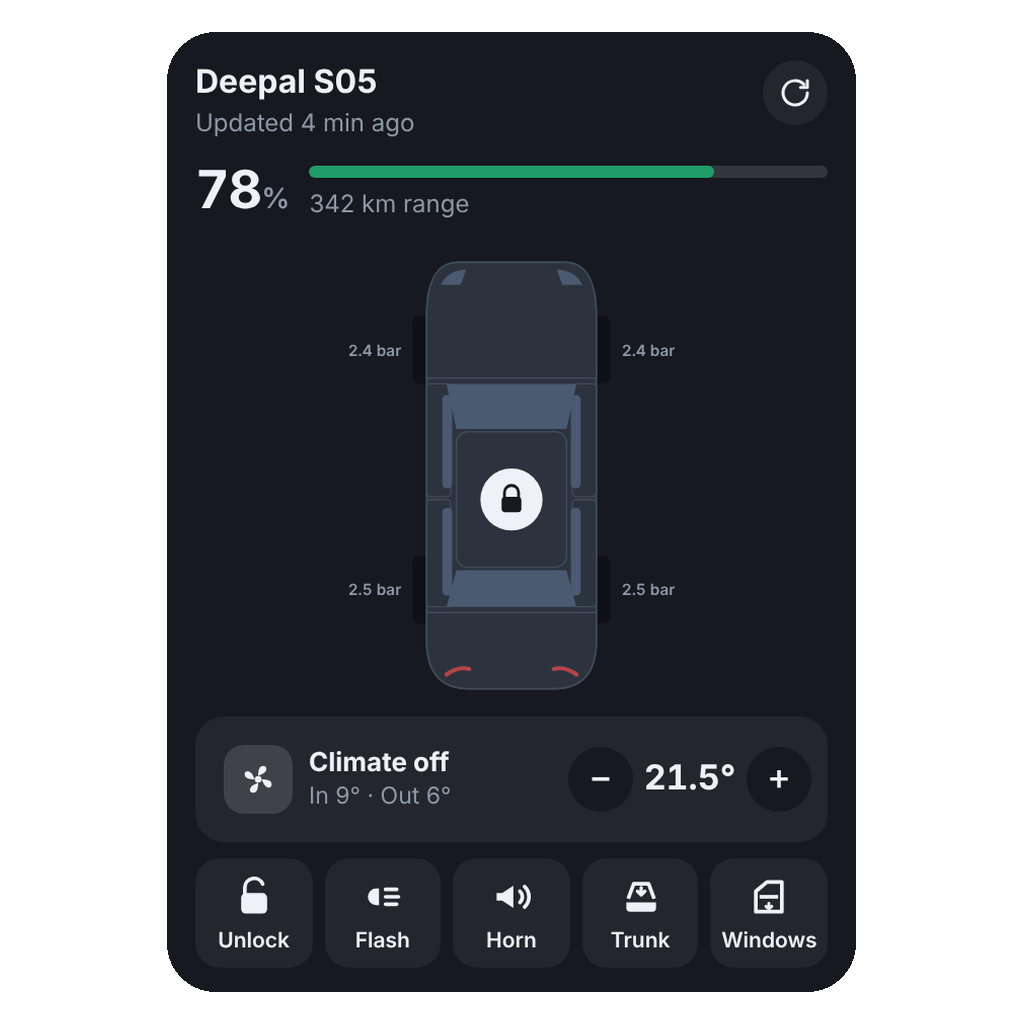
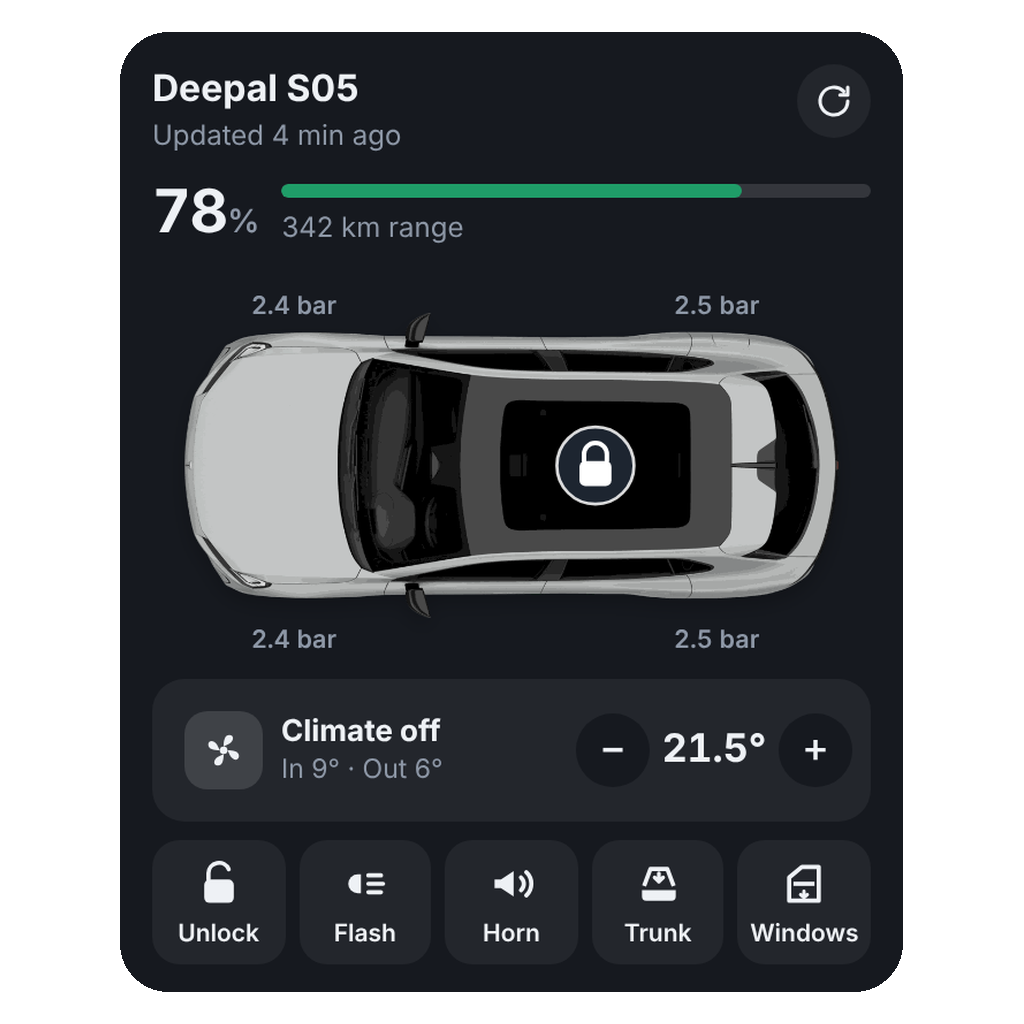
Use the S05 top-view render in the car widget
The car is drawn horizontally from the real S05 image, with door, window,
hood and trunk states tinted inside the car outline. Tap areas follow the
picture: lock badge on the glass roof, front for lights, tailgate for trunk.

Claude-Session: https://claude.ai/code/session_019wMVxHNUpZdVKq2qXqi373

diff --git a/widgets/car/public/index.html b/widgets/car/public/index.html
@@ -81,14 +81,13 @@
   .battery-text .charging { color: var(--ok); font-weight: 600; }
 
   /* Car */
-  .car-wrap { position: relative; margin: 8px auto 4px; max-width: 300px; }
-  .car-wrap > svg { width: 100%; height: auto; max-height: 230px; }
+  .car-wrap { position: relative; margin: 10px -6px 6px; }
+  .car-wrap > svg { width: 100%; height: auto; overflow: visible; }
   .part { cursor: pointer; transition: fill .25s ease, opacity .25s ease; }
   .part:active { opacity: .7; }
   .part.disabled { cursor: default; }
-  .tire-label { font-size: 11px; font-weight: 600; fill: var(--muted); font-variant-numeric: tabular-nums; }
+  .tire-label { font-size: 40px; font-weight: 600; fill: var(--muted); font-variant-numeric: tabular-nums; }
   .tire-label.alarm { fill: var(--danger); }
-  .tire-caption { font-size: 9px; fill: var(--muted); opacity: .8; }
   .state-label { font-size: 9.5px; font-weight: 700; letter-spacing: .4px; fill: var(--warn); text-transform: uppercase; }
   .cabin-glow { opacity: 0; transition: opacity .4s ease; }
   .climate-on .cabin-glow { opacity: 1; animation: breathe 3s ease-in-out infinite; }
@@ -291,120 +290,104 @@
 
   const fmt = (value, unit, digits = 0) => (value == null ? '–' : `${Number(value).toFixed(digits)}${unit}`);
 
+  // S05 top view, front to the left: the top edge is the car's right side.
+  // Coordinates are in the original 1200×750 render; s05.png is its crop at (64, 120).
+  const DOOR_SPANS = { front: [400, 645], rear: [680, 890] };
+  const WINDOW_SPANS = { front: [470, 650], rear: [682, 912] };
+
   function carSvg(c) {
     const doors = c.doors || {};
     const windows = c.windows || {};
     const locked = c.locked;
     const busyLock = isPending('lock') || isPending('unlock');
     const confirmUnlock = confirm && confirm.action === 'unlock';
-    const lockFill = confirmUnlock ? 'var(--accent)' : locked === false ? 'var(--warn)' : 'var(--text)';
+    const lockFill = confirmUnlock ? 'var(--accent)' : locked === false ? 'var(--warn)' : '#1d2530';
     const lockAction = locked === false ? 'lock' : 'unlock';
-    const doorFill = open => (open ? 'var(--warn)' : 'var(--body)');
-    const glassFill = open => (open ? 'var(--glass-open)' : 'var(--glass)');
-    const windowsAction = c.anyWindowOpen ? 'windows_close' : 'windows_open';
     const heating = c.targetTemperature != null && c.insideTemperature != null && c.targetTemperature > c.insideTemperature;
     const glow = heating ? 'var(--heat)' : 'var(--accent)';
-    const tire = (t, x, y, anchor) => {
-      const alarm = t && t.alarm;
-      return `<text class="tire-label${alarm ? ' alarm' : ''}" x="${x}" y="${y}" text-anchor="${anchor}">${t && t.bar != null ? `${t.bar.toFixed(1)} bar` : '–'}</text>`;
+    const charging = c.chargingState === 'plugged_in_charging';
+    const plugged = c.chargingState && c.chargingState !== 'plugged_out';
+
+    const tire = (t, x, y) => `<text class="tire-label${t && t.alarm ? ' alarm' : ''}" x="${x}" y="${y}" text-anchor="middle">${t && t.bar != null ? `${t.bar.toFixed(1)} bar` : '–'}</text>`;
+    // Door band along the body edge, and the door drawn swung out from its front hinge.
+    const door = (side, span, open) => {
+      if (!open) return '';
+      const [x1, x2] = DOOR_SPANS[span];
+      const top = side === 'right';
+      const edge = top ? 163 : 585;
+      const band = top ? `M${x1} 158 L${x2} 158 L${x2} 192 L${x1} 192 Z` : `M${x1} 556 L${x2} 556 L${x2} 590 L${x1} 590 Z`;
+      return `<path d="${band}" fill="var(--warn)" opacity=".85" mask="url(#car)"/>
+        <rect x="${x1}" y="${edge - 7}" width="${x2 - x1}" height="14" rx="7" fill="var(--warn)" transform="rotate(${top ? -24 : 24} ${x1} ${edge})"/>`;
     };
-    // An open door is drawn swung out from its front hinge.
-    const openDoor = (side, top, length) => {
-      const x = side === 'left' ? 84 : 210;
-      const hinge = side === 'left' ? 90 : 210;
-      const angle = side === 'left' ? 32 : -32;
-      return `<rect x="${x}" y="${top}" width="6" height="${length}" rx="3" fill="var(--warn)" transform="rotate(${angle} ${hinge} ${top})"/>`;
+    const glass = (side, span, open) => {
+      if (!open) return '';
+      const [x1, x2] = WINDOW_SPANS[span];
+      const y = side === 'right' ? 188 : 526;
+      return `<rect x="${x1}" y="${y}" width="${x2 - x1}" height="35" rx="12" fill="var(--warn)" opacity=".9"/>`;
     };
 
     return `
-    <svg viewBox="0 0 300 330" class="${c.climateOn ? 'climate-on' : ''} ${flashing ? 'flashing' : ''}" role="img" aria-label="Car, top view">
+    <svg viewBox="0 70 1200 625" class="${c.climateOn ? 'climate-on' : ''} ${flashing ? 'flashing' : ''}" role="img" aria-label="Deepal S05, top view">
       <defs>
-        <radialGradient id="glow" cx="50%" cy="50%" r="60%">
-          <stop offset="0%" stop-color="${glow}" stop-opacity=".55"/>
+        <mask id="car" style="mask-type:alpha" maskUnits="userSpaceOnUse" x="0" y="0" width="1200" height="750">
+          <image href="s05.png" x="64" y="120" width="1072" height="510"/>
+        </mask>
+        <radialGradient id="glow" cx="50%" cy="50%" r="50%">
+          <stop offset="0%" stop-color="${glow}" stop-opacity=".75"/>
           <stop offset="100%" stop-color="${glow}" stop-opacity="0"/>
         </radialGradient>
-        <linearGradient id="beam" x1="0" y1="1" x2="0" y2="0">
-          <stop offset="0%" stop-color="#ffe8a3" stop-opacity=".9"/>
+        <linearGradient id="beam" x1="1" y1="0" x2="0" y2="0">
+          <stop offset="0%" stop-color="#ffe8a3" stop-opacity=".95"/>
           <stop offset="100%" stop-color="#ffe8a3" stop-opacity="0"/>
         </linearGradient>
+        <filter id="shadow" x="-10%" y="-10%" width="120%" height="130%">
+          <feDropShadow dx="0" dy="14" stdDeviation="16" flood-color="#000" flood-opacity=".22"/>
+        </filter>
       </defs>
 
       <!-- headlight beams (shown while flashing) -->
-      <path class="flash-beam" d="M98 22 L70 -10 L130 -10 L118 22 Z" fill="url(#beam)"/>
-      <path class="flash-beam" d="M182 22 L170 -10 L230 -10 L202 22 Z" fill="url(#beam)"/>
+      <path class="flash-beam" d="M150 182 L0 120 L0 270 L135 200 Z" fill="url(#beam)"/>
+      <path class="flash-beam" d="M150 566 L0 628 L0 478 L135 548 Z" fill="url(#beam)"/>
 
-      <!-- wheels -->
-      <rect x="80" y="52" width="13" height="48" rx="5" fill="var(--wheel)"/>
-      <rect x="207" y="52" width="13" height="48" rx="5" fill="var(--wheel)"/>
-      <rect x="80" y="222" width="13" height="48" rx="5" fill="var(--wheel)"/>
-      <rect x="207" y="222" width="13" height="48" rx="5" fill="var(--wheel)"/>
+      <image href="s05.png" x="64" y="120" width="1072" height="510" filter="url(#shadow)"/>
 
-      <!-- body -->
-      <path d="M112 14 C96 14 90 30 90 52 L90 282 C90 304 99 316 120 316 L180 316 C201 316 210 304 210 282 L210 52 C210 30 204 14 188 14 Z" fill="var(--body)" stroke="var(--body-edge)" stroke-width="1.5"/>
+      <!-- state tints, clipped to the car's outline -->
+      ${c.hoodOpen ? '<rect x="64" y="120" width="285" height="510" fill="var(--warn)" opacity=".75" mask="url(#car)"/>' : ''}
+      ${c.trunkOpen ? '<rect x="945" y="120" width="191" height="510" fill="var(--warn)" opacity=".75" mask="url(#car)"/>' : ''}
+      <rect class="cabin-glow" x="380" y="150" width="660" height="450" fill="url(#glow)" mask="url(#car)" style="mix-blend-mode:screen"/>
+      ${glass('right', 'front', windows.frontRight)}${glass('right', 'rear', windows.rearRight)}
+      ${glass('left', 'front', windows.frontLeft)}${glass('left', 'rear', windows.rearLeft)}
+      ${door('right', 'front', doors.passenger)}${door('right', 'rear', doors.rearRight)}
+      ${door('left', 'front', doors.driver)}${door('left', 'rear', doors.rearLeft)}
+      ${flashing ? '<g fill="#ffd65a"><ellipse cx="170" cy="186" rx="40" ry="9"/><ellipse cx="170" cy="562" rx="40" ry="9"/></g>' : ''}
 
-      <!-- hood -->
-      <path d="M112 14 C96 14 90 30 90 52 L90 96 L210 96 L210 52 C210 30 204 14 188 14 Z" fill="${c.hoodOpen ? 'var(--warn)' : 'var(--body)'}" stroke="var(--body-edge)" stroke-width="1"/>
-      <!-- headlights: tap to flash -->
-      <g class="part" data-action="flash" role="button" aria-label="Flash the lights">
-        <path d="M100 30 Q104 20 118 19 L114 30 Z" fill="${flashing ? '#ffd65a' : 'var(--glass)'}"/>
-        <path d="M200 30 Q196 20 182 19 L186 30 Z" fill="${flashing ? '#ffd65a' : 'var(--glass)'}"/>
-        <rect x="96" y="14" width="108" height="26" fill="transparent"/>
-      </g>
-
-      <!-- doors: tap to lock / unlock -->
-      <g class="part" data-action="${lockAction}" role="button" aria-label="${locked === false ? 'Lock' : 'Unlock'} the car">
-        <rect x="90" y="100" width="17" height="80" rx="3" fill="${doorFill(doors.driver)}" stroke="var(--body-edge)"/>
-        <rect x="90" y="182" width="17" height="76" rx="3" fill="${doorFill(doors.rearLeft)}" stroke="var(--body-edge)"/>
-        <rect x="193" y="100" width="17" height="80" rx="3" fill="${doorFill(doors.passenger)}" stroke="var(--body-edge)"/>
-        <rect x="193" y="182" width="17" height="76" rx="3" fill="${doorFill(doors.rearRight)}" stroke="var(--body-edge)"/>
-      </g>
-      ${doors.driver ? openDoor('left', 100, 76) : ''}
-      ${doors.rearLeft ? openDoor('left', 182, 72) : ''}
-      ${doors.passenger ? openDoor('right', 100, 76) : ''}
-      ${doors.rearRight ? openDoor('right', 182, 72) : ''}
-
-      <!-- side windows: tap to open / close all windows -->
-      <g class="part" data-action="${windowsAction}" role="button" aria-label="${c.anyWindowOpen ? 'Close' : 'Open'} the windows">
-        <rect x="101" y="108" width="7" height="66" rx="3" fill="${glassFill(windows.frontLeft)}"/>
-        <rect x="101" y="188" width="7" height="62" rx="3" fill="${glassFill(windows.rearLeft)}"/>
-        <rect x="192" y="108" width="7" height="66" rx="3" fill="${glassFill(windows.frontRight)}"/>
-        <rect x="192" y="188" width="7" height="62" rx="3" fill="${glassFill(windows.rearRight)}"/>
-      </g>
-
-      <!-- glass and roof -->
-      <path d="M104 100 L196 100 L189 132 L111 132 Z" fill="var(--glass)"/>
-      <rect x="111" y="134" width="78" height="96" rx="8" fill="var(--body)" stroke="var(--body-edge)"/>
-      <rect class="cabin-glow" x="104" y="104" width="92" height="152" rx="20" fill="url(#glow)"/>
-      <path d="M111 232 L189 232 L196 258 L104 258 Z" fill="var(--glass)"/>
-
-      <!-- roof lock badge: tap to lock / unlock -->
-      <g class="part lock-badge" data-action="${lockAction}" role="button" aria-label="${locked === false ? 'Lock' : 'Unlock'} the car">
-        <circle cx="150" cy="182" r="22" fill="${lockFill}" opacity="${locked == null ? .35 : 1}"/>
-        ${busyLock ? '<circle class="pending-ring" cx="150" cy="182" r="26"/>' : ''}
-        <g transform="translate(138 170)" style="color: var(--bg)"><svg width="24" height="24" viewBox="0 0 24 24">${locked === false ? ICONS.unlock : ICONS.lock}</svg></g>
-      </g>
-
-      <!-- trunk: tap to open -->
+      <!-- tap areas -->
+      <rect class="part" data-action="flash" role="button" aria-label="Flash the lights" x="70" y="150" width="270" height="450" rx="60" fill="transparent"/>
       <g class="part" data-action="open_trunk" role="button" aria-label="Open the trunk">
-        <path d="M90 262 L210 262 L210 282 C210 304 201 316 180 316 L120 316 C99 316 90 304 90 282 Z" fill="${c.trunkOpen ? 'var(--warn)' : 'var(--body)'}" stroke="var(--body-edge)"/>
-        <path d="M104 306 Q112 300 120 302 M196 306 Q188 300 180 302" stroke="var(--danger)" stroke-width="3" stroke-linecap="round" fill="none" opacity=".75"/>
-        ${isPending('open_trunk') ? '<circle class="pending-ring" cx="150" cy="289" r="12"/>' : ''}
+        <rect x="945" y="170" width="185" height="410" rx="60" fill="transparent"/>
+        ${c.trunkOpen ? '<text class="state-label" x="1035" y="388" text-anchor="middle" style="fill:#fff;font-size:34px">OPEN</text>' : ''}
+        ${isPending('open_trunk') ? '<circle class="pending-ring" cx="1035" cy="375" r="46" style="stroke-width:9"/>' : ''}
+      </g>
+      ${c.hoodOpen ? '<text class="state-label" x="210" y="388" text-anchor="middle" style="fill:#fff;font-size:34px">HOOD OPEN</text>' : ''}
+
+      <!-- lock badge on the glass roof -->
+      <g class="part lock-badge" data-action="${lockAction}" role="button" aria-label="${locked === false ? 'Lock' : 'Unlock'} the car">
+        <circle cx="735" cy="375" r="62" fill="${lockFill}" stroke="rgba(255,255,255,.85)" stroke-width="5" opacity="${locked == null ? .45 : 1}"/>
+        ${busyLock ? '<circle class="pending-ring" cx="735" cy="375" r="76" style="stroke-width:9"/>' : ''}
+        <g transform="translate(691 331) scale(3.67)" style="color:#fff">${locked === false ? ICONS.unlock : ICONS.lock}</g>
       </g>
 
-      ${c.trunkOpen ? '<text class="state-label" x="150" y="292" text-anchor="middle" style="fill:#fff">Open</text>' : ''}
-      ${c.hoodOpen ? '<text class="state-label" x="150" y="60" text-anchor="middle" style="fill:#fff">Hood open</text>' : ''}
+      <!-- charging cable from the rear -->
+      ${plugged ? `
+        <path d="M1128 330 C1160 330 1165 280 1168 250" fill="none" stroke="${charging ? 'var(--ok)' : 'var(--muted)'}" stroke-width="10" stroke-linecap="round"/>
+        <circle cx="1166" cy="214" r="32" fill="${charging ? 'var(--ok)' : 'var(--muted)'}"/>
+        <g transform="translate(1144 192) scale(1.83)" style="color:#fff">${ICONS.bolt}</g>` : ''}
 
-      <!-- charge port -->
-      ${c.chargingState && c.chargingState !== 'plugged_out' ? `
-        <path d="M210 276 C232 276 236 296 250 300" fill="none" stroke="${c.chargingState === 'plugged_in_charging' ? 'var(--ok)' : 'var(--muted)'}" stroke-width="3" stroke-linecap="round"/>
-        <circle cx="258" cy="302" r="13" fill="${c.chargingState === 'plugged_in_charging' ? 'var(--ok)' : 'var(--muted)'}"/>
-        <g transform="translate(250 294)" style="color:#fff"><svg width="16" height="16" viewBox="0 0 24 24">${ICONS.bolt}</svg></g>` : ''}
-
-      <!-- tire pressures -->
-      ${tire(c.tires.frontLeft, 72, 80, 'end')}
-      ${tire(c.tires.frontRight, 228, 80, 'start')}
-      ${tire(c.tires.rearLeft, 72, 250, 'end')}
-      ${tire(c.tires.rearRight, 228, 250, 'start')}
+      <!-- tire pressures: top row is the right side, bottom row the left -->
+      ${tire(c.tires.frontRight, 250, 132)}
+      ${tire(c.tires.rearRight, 930, 132)}
+      ${tire(c.tires.frontLeft, 250, 668)}
+      ${tire(c.tires.rearLeft, 930, 668)}
     </svg>`;
   }
 

diff --git a/README.md b/README.md
@@ -35,10 +35,10 @@ snapshot. Other cars use the REST condition endpoint.
 
 Add it on a Homey dashboard: *Dashboards → Edit → + → Deepal → Deepal car*.
 
-- Top-down view of the car showing doors, windows, trunk, hood, tire pressures, the charging
+- Top-down picture of the S05 showing doors, windows, trunk, hood, tire pressures, the charging
   cable and climate (the cabin glows blue or orange).
-- Tap the car: doors or the roof badge lock/unlock, headlights flash, side windows open/close, trunk
-  opens. Unlock, trunk and windows ask for a second tap.
+- Tap the car: the lock badge on the glass roof locks/unlocks, the front flashes the lights, the
+  tailgate opens the trunk. Unlock and trunk (and the Windows button) ask for a second tap.
 - Climate on/off and temperature −/+ (one command after you stop tapping), plus Lock, Flash, Horn,
   Trunk and Windows buttons, and a wake-and-refresh button.
 - Updates live when the car reports; the result of each command appears as a short message.
@@ -54,7 +54,7 @@ lib/crypto.js               RSA request encryption, login keypair, command signi
 lib/condition.js            Condition parsing and S05 parameter normalization
 drivers/vehicle/            Driver (pairing), device (polling, commands), settings, Flow cards
 drivers/vehicle/pair/login.html   Two-step email/SMS code login view
-widgets/car/                Dashboard widget: public/index.html (UI), api.js (state + commands)
+widgets/car/                Dashboard widget: public/index.html (UI), public/s05.png (car image), api.js (state + commands)
 .homeycompose/              App manifest and custom capabilities (app.json is generated from these)
 test/                       Offline tests (node --test)
 ```
